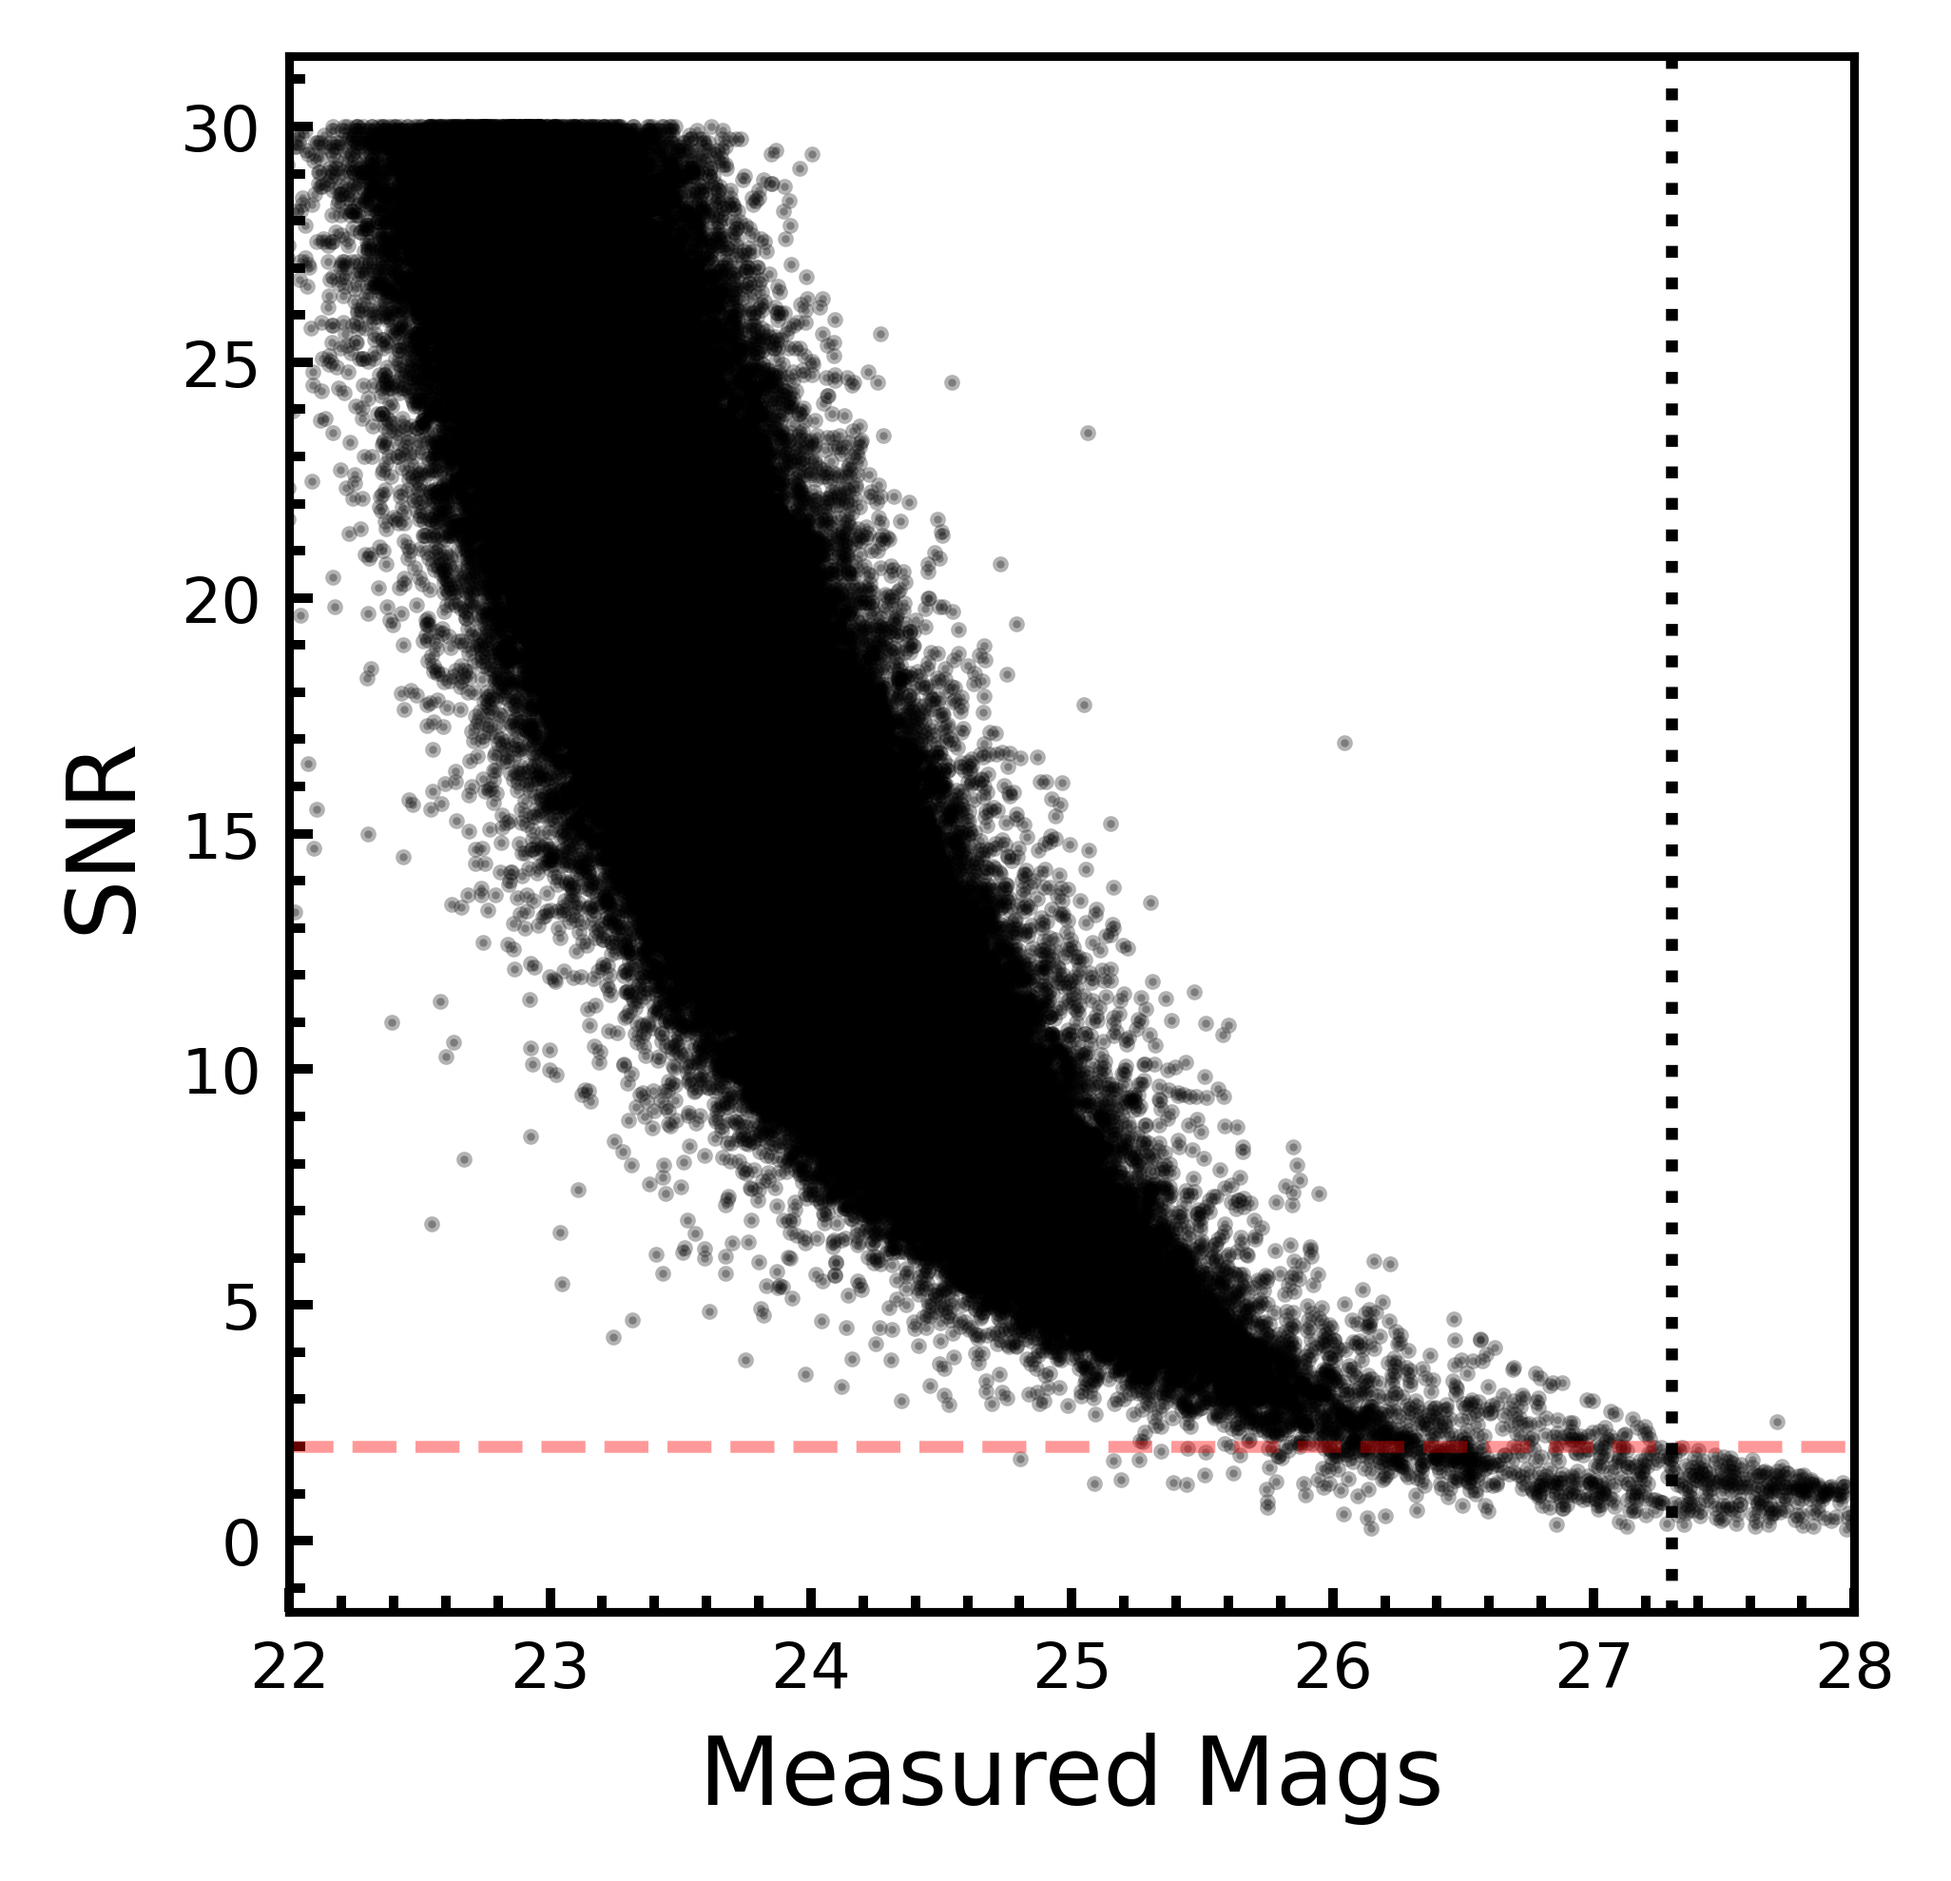
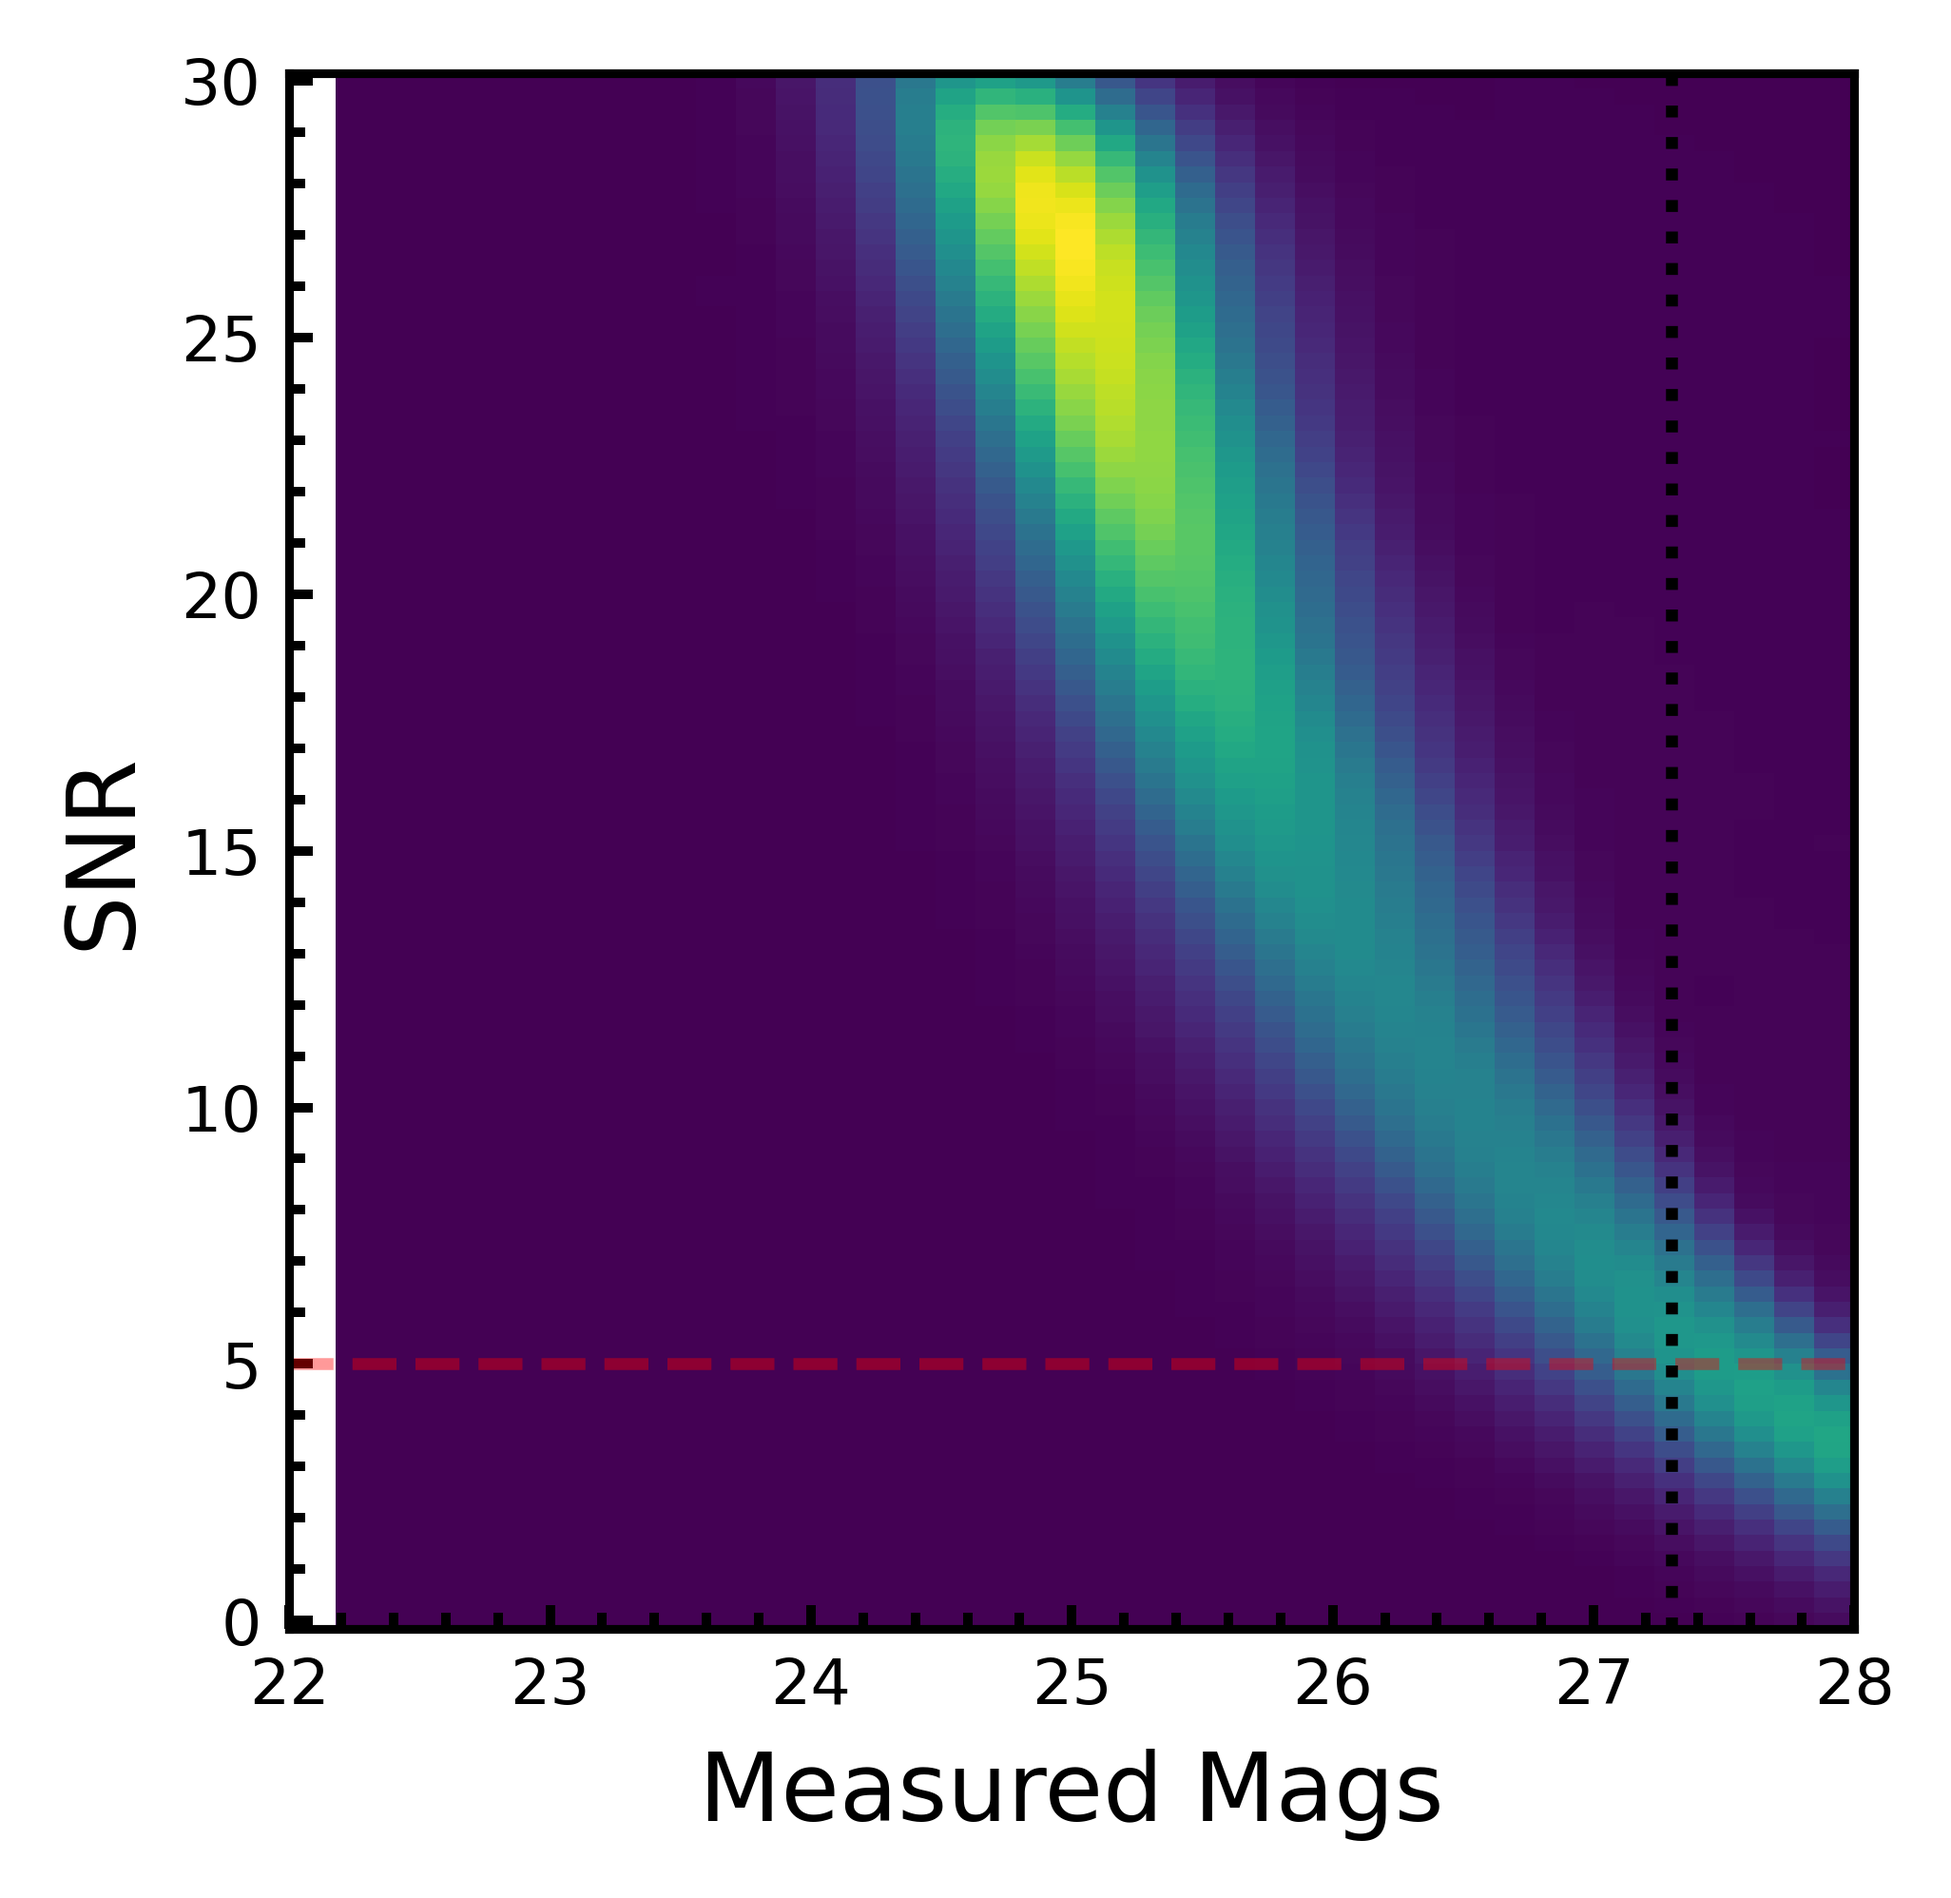
Checking depth plots

diff --git a/plot_depth.py b/plot_depth.py
@@ -6,6 +6,7 @@ from scipy.stats import gaussian_kde
 import plotting
 from sex_catalog import SExtractorCat
 from zero_points import zero_points
+from zero_points_cdfs import zero_points_cdfs
 
 
 HU_VALUES = {
@@ -41,15 +42,15 @@ def plot_depth(sextractor_cat_name: str, zpt: float, broadband: str) -> None:
     mag, signal_to_noise  = mag[signal_to_noise_cut], signal_to_noise[signal_to_noise_cut]
 
     # Do some shadding instead of a scatter plot.
-    #nbins = 100
-    #kernal = gaussian_kde((mag, signal_to_noise))
-    #x_i, y_i = np.mgrid[
-    #    mag.min():mag.max():nbins*1j, signal_to_noise.min():signal_to_noise.max():nbins*1j]
-    #z_i = kernal(np.vstack([x_i.flatten(), y_i.flatten()]))
+    nbins = 100
+    kernal = gaussian_kde((mag, signal_to_noise))
+    x_i, y_i = np.mgrid[
+        mag.min():mag.max():nbins*1j, signal_to_noise.min():signal_to_noise.max():nbins*1j]
+    z_i = kernal(np.vstack([x_i.flatten(), y_i.flatten()]))
     plotting.start_plot(x_label='Measured Mags', y_label='SNR')
-    #plt.pcolormesh(x_i, y_i, z_i.reshape(x_i.shape), shading='auto')
-    plt.scatter(mag, signal_to_noise, s= 1, color='k', alpha=0.3)
-    plt.axhline(2, ls='--', lw=1.5, color='r', alpha=0.4)
+    plt.pcolormesh(x_i, y_i, z_i.reshape(x_i.shape), shading='auto')
+    #plt.scatter(mag, signal_to_noise, s= 1, color='k', alpha=0.3)
+    plt.axhline(5, ls='--', lw=1.5, color='r', alpha=0.4)
     plt.axvline(HU_VALUES[broadband], ls = ':', color='k')
     plt.xlim(22, 28)
     plotting.end_plot(f'plots/depth_{broadband}.png')
@@ -65,7 +66,22 @@ if __name__ == '__main__':
     N_ZPT = zero_points.n964_band.mag_correct(1)
     N_ZPT_135 = zero_points.n964_band.mag_correct(1.35/2)
 
+
+    INFILE_SEX_I_CDFS = '../CDFS_LAGER/i_cdfs.cat'
+    INFILE_SEX_Z_CDFS = '../CDFS_LAGER/z_cdfs.cat'
+    INFILE_SEX_N_CDFS = '../CDFS_LAGER/n964_cdfs.cat'
+    I_ZPT_CDFS = zero_points_cdfs.i_band.mag_correct(1)
+    Z_ZPT_CDFS = zero_points_cdfs.z_band.mag_correct(1)
+    N_ZPT_CDFS = zero_points_cdfs.n964_band.mag_correct(1)
+    N_ZPT_135_CDFS = zero_points_cdfs.n964_band.mag_correct(1.35/2)
+
+
+
     plot_depth(INFILE_SEX_I, I_ZPT, 'i')
     plot_depth(INFILE_SEX_Z, Z_ZPT, 'z')
     plot_depth(INFILE_SEX_N, N_ZPT, 'n964')
     #plot_depth(INFILE_SEX_N_135, N_ZPT_135, 'n964')
+
+    plot_depth(INFILE_SEX_I_CDFS, I_ZPT_CDFS, 'i')
+    plot_depth(INFILE_SEX_Z_CDFS, Z_ZPT_CDFS, 'z')
+    plot_depth(INFILE_SEX_N_CDFS, N_ZPT_CDFS, 'n964')
